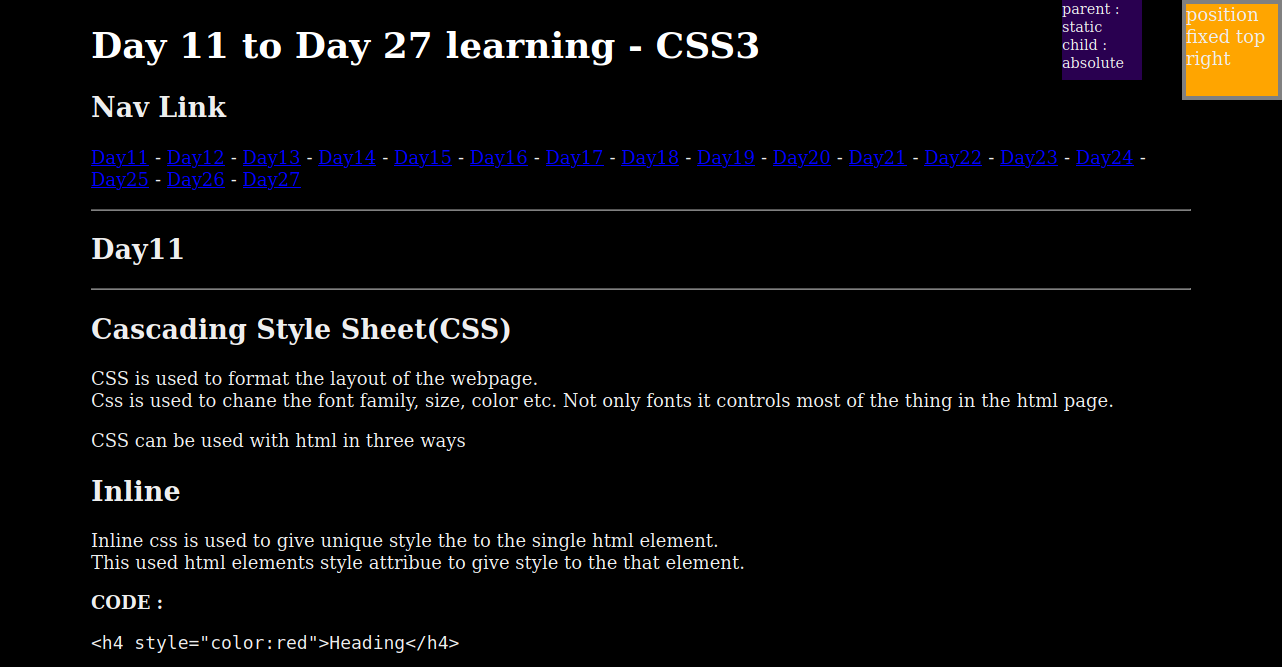
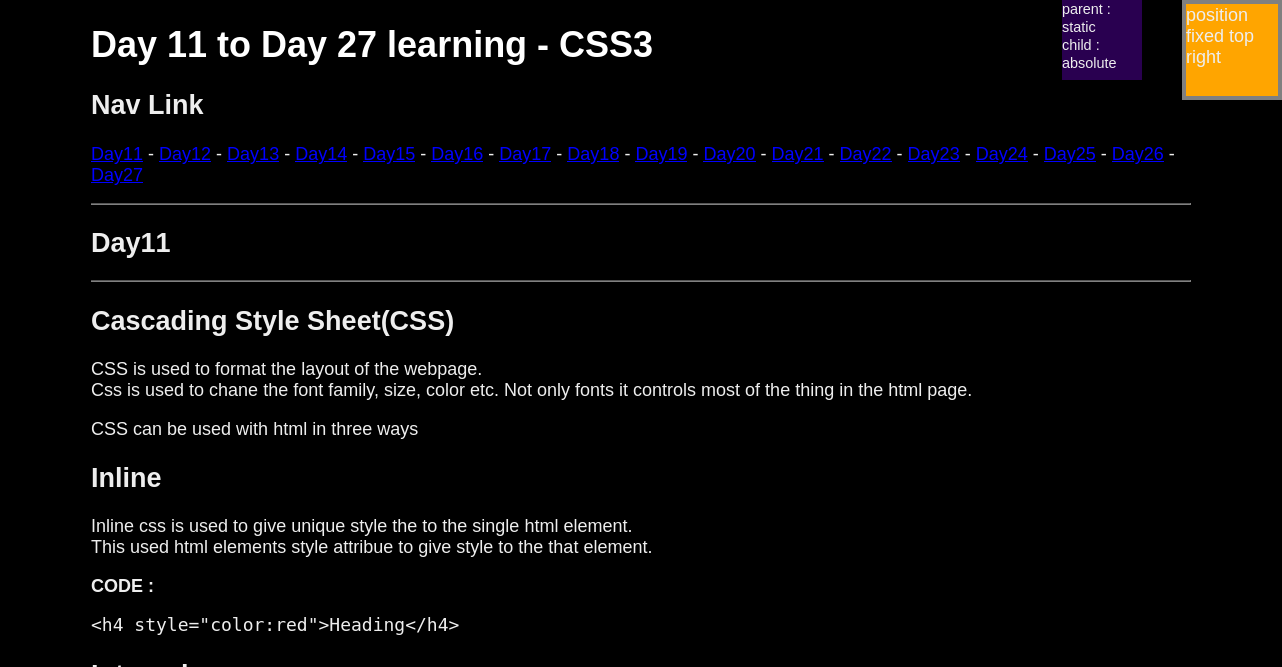
font
Changing the font family

diff --git a/index.html b/index.html
@@ -19,6 +19,7 @@
         color: black;
         background-color: white;
         font-size: 18px;
+        font-family: Arial,Verdana, Tahoma, 'Courier New', Courier, "Helvetica Neue", Helvetica, sans-serif;
     }
     a:visited {
         color:#0000FF;
@@ -30,7 +31,6 @@
         }
         h1 {
             color: white;
-            font-weight: 400;
         }
     }
 </style>

diff --git a/029/index.html b/029/index.html
@@ -13,6 +13,11 @@
 
     <!-- user style -->
     <link rel="stylesheet" href="assets/css/style.css">
+    <style>
+      html, body {
+        font-family: Arial,Verdana, Tahoma, 'Courier New', Courier, "Helvetica Neue", Helvetica, sans-serif;
+      }
+    </style>
 </head>
 <body class="bg-warning">
     <nav class="navbar navbar-expand-sm navbar-light shadow p-3 mb-5">

diff --git a/001-to-010/index.html b/001-to-010/index.html
@@ -21,6 +21,7 @@
         color: black;
         background-color: white;
         font-size: 18px;
+        font-family: Arial,Verdana, Tahoma, 'Courier New', Courier, "Helvetica Neue", Helvetica, sans-serif;
     }
     a:visited {
     color:#0000FF;

diff --git a/030/index.html b/030/index.html
@@ -15,6 +15,7 @@
         color: black;
         background-color: white;
         font-size: 18px;
+        font-family: Arial,Verdana, Tahoma, 'Courier New', Courier, "Helvetica Neue", Helvetica, sans-serif;
     }
     a {
         color:#0000FF;

diff --git a/011-to-027/index.html b/011-to-027/index.html
@@ -20,6 +20,7 @@
         color: black;
         background-color: white;
         font-size: 18px;
+        font-family: Arial,Verdana, Tahoma, 'Courier New', Courier, "Helvetica Neue", Helvetica, sans-serif;
     }
 
     pre {
